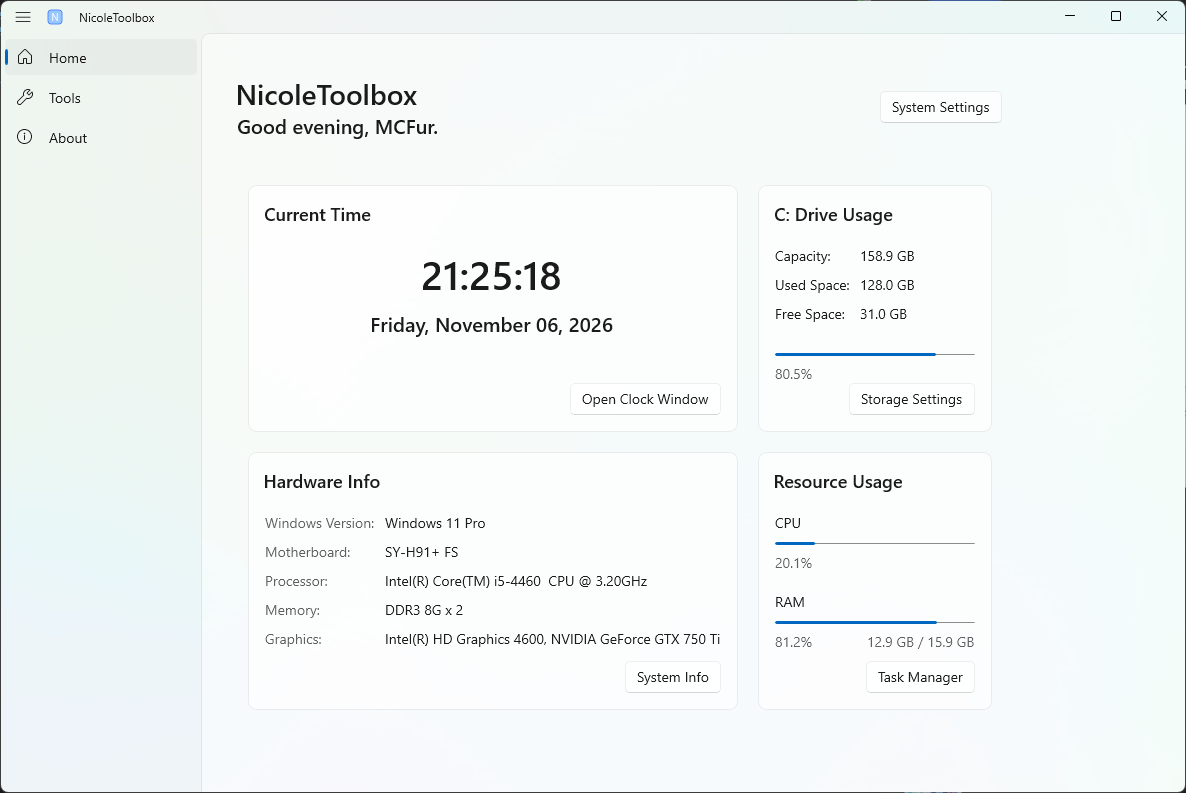
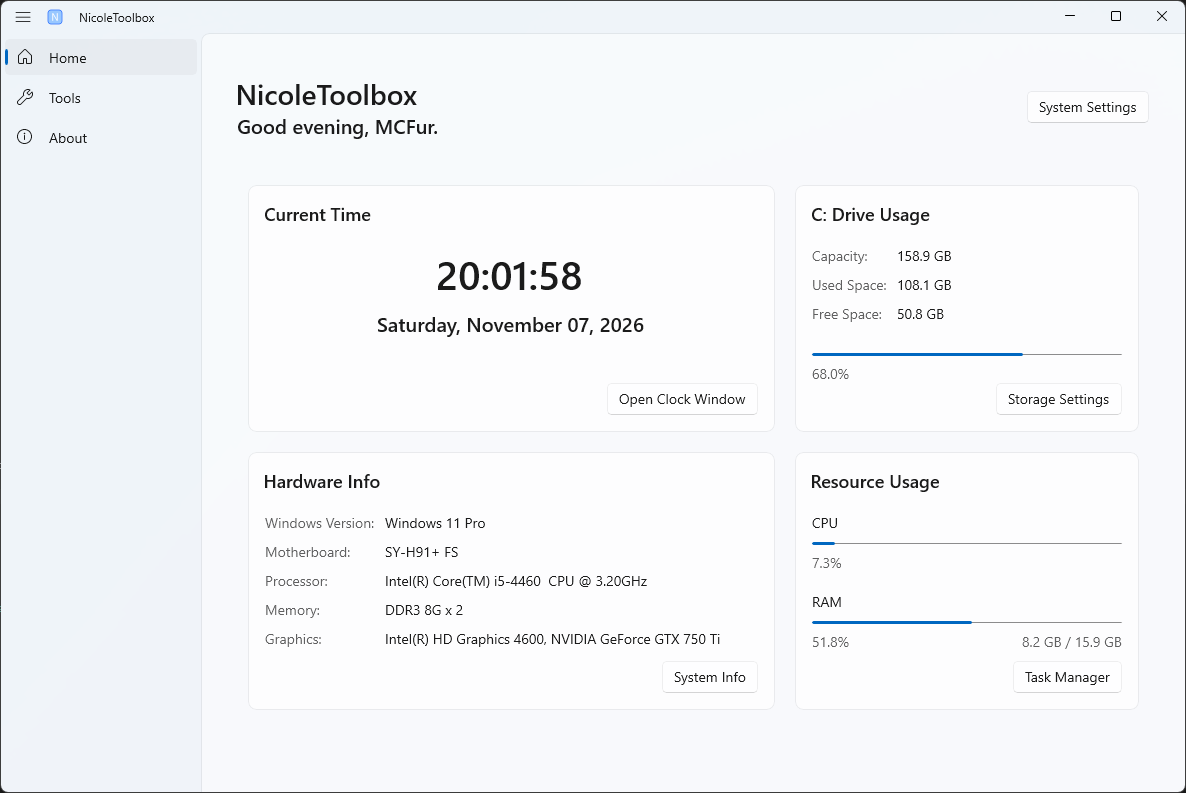
优化主页的布局，及稳固性

diff --git a/Pages/HomePage.xaml b/Pages/HomePage.xaml
@@ -9,8 +9,8 @@
     mc:Ignorable="d" NavigationCacheMode="Required">
 
     <Grid>
-        <ScrollView ContentOrientation="Both" HorizontalScrollBarVisibility="Auto" VerticalScrollBarVisibility="Auto" MaxWidth="1024">
-            <StackPanel Orientation="Vertical" HorizontalAlignment="Left" VerticalAlignment="Top" Margin="36,40,0,0">
+        <ScrollView HorizontalScrollBarVisibility="Hidden" VerticalScrollBarVisibility="Auto" MaxWidth="1024">
+            <StackPanel Orientation="Vertical" HorizontalAlignment="Stretch" VerticalAlignment="Top" Margin="36,40,36,40">
                 <Grid Margin="0,0,0,36">
                     <StackPanel VerticalAlignment="Center">
                         <TextBlock Text="NicoleToolbox" Style="{StaticResource TitleTextBlockStyle}"/>
@@ -20,8 +20,8 @@
                 </Grid>
                 <Grid>
                     <Grid.ColumnDefinitions>
-                        <ColumnDefinition Width="*"/>
-                        <ColumnDefinition Width="*"/>
+                        <ColumnDefinition Width="6*"/>
+                        <ColumnDefinition Width="4*"/>
                     </Grid.ColumnDefinitions>
                     <Grid.RowDefinitions>
                         <RowDefinition Height="Auto"/>
@@ -66,7 +66,7 @@
                                     <TextBlock Grid.Row="2" Grid.Column="0" x:Uid="Home_DiskC_FreeLabel" Margin="0,0,0,10" Foreground="{ThemeResource TextFillColorSecondaryBrush}"/>
                                     <TextBlock Grid.Row="2" Grid.Column="1" x:Name="CFree" Margin="10,0,0,10" TextWrapping="Wrap" IsTextSelectionEnabled="True"/>
                                 </Grid>
-                                <ProgressBar x:Name="CDiskProgress" Value="0" Width="200"/>
+                                <ProgressBar x:Name="CDiskProgress" Value="0" HorizontalAlignment="Stretch"/>
                                 <Grid Margin="0,8,0,0">
                                     <TextBlock Text="0%" x:Name="CDiskPercentage" VerticalAlignment="Center" Foreground="{ThemeResource TextFillColorSecondaryBrush}"/>
                                 </Grid>
@@ -118,10 +118,10 @@
                             <StackPanel Orientation="Vertical" Grid.Row="0">
                                 <TextBlock x:Uid="Home_ResourceUsageCard_Title" Style="{StaticResource BodyLargeStrongTextBlockStyle}" Margin="0,0,0,20"/>
                                 <TextBlock x:Uid="Home_Resource_CPULabel" Margin="0,0,0,10"/>
-                                <ProgressBar Value="0" Width="200" Margin="0,0,0,8" x:Name="CPUProgress"/>
+                                <ProgressBar Value="0" HorizontalAlignment="Stretch" Margin="0,0,0,8" x:Name="CPUProgress"/>
                                 <TextBlock Text="0%" HorizontalAlignment="Left" Foreground="{ThemeResource TextFillColorSecondaryBrush}" Margin="0,0,0,20" x:Name="CPUPercentage"/>
                                 <TextBlock x:Uid="Home_Resource_RAMLabel" Margin="0,0,0,10"/>
-                                <ProgressBar Value="0" Width="200" Margin="0,0,0,8" x:Name="RAMProgress"/>
+                                <ProgressBar Value="0" HorizontalAlignment="Stretch" Margin="0,0,0,8" x:Name="RAMProgress"/>
                                 <Grid Margin="0,0,0,10">
                                     <TextBlock Text="0%" VerticalAlignment="Center" Foreground="{ThemeResource TextFillColorSecondaryBrush}" x:Name="RAMPercentage"/>
                                     <TextBlock Text="0 GB / 0 GB" HorizontalAlignment="Right" Foreground="{ThemeResource TextFillColorSecondaryBrush}" x:Name="RAMUsage"/>
